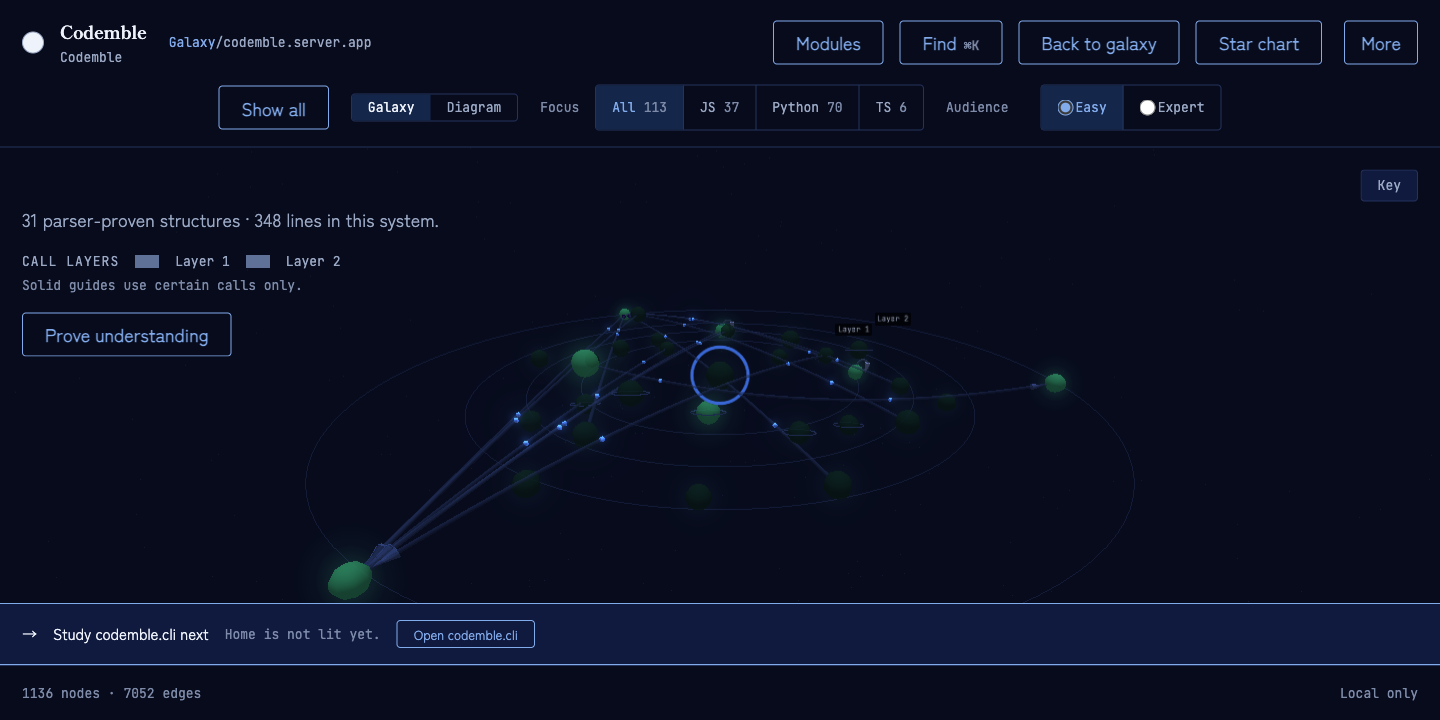
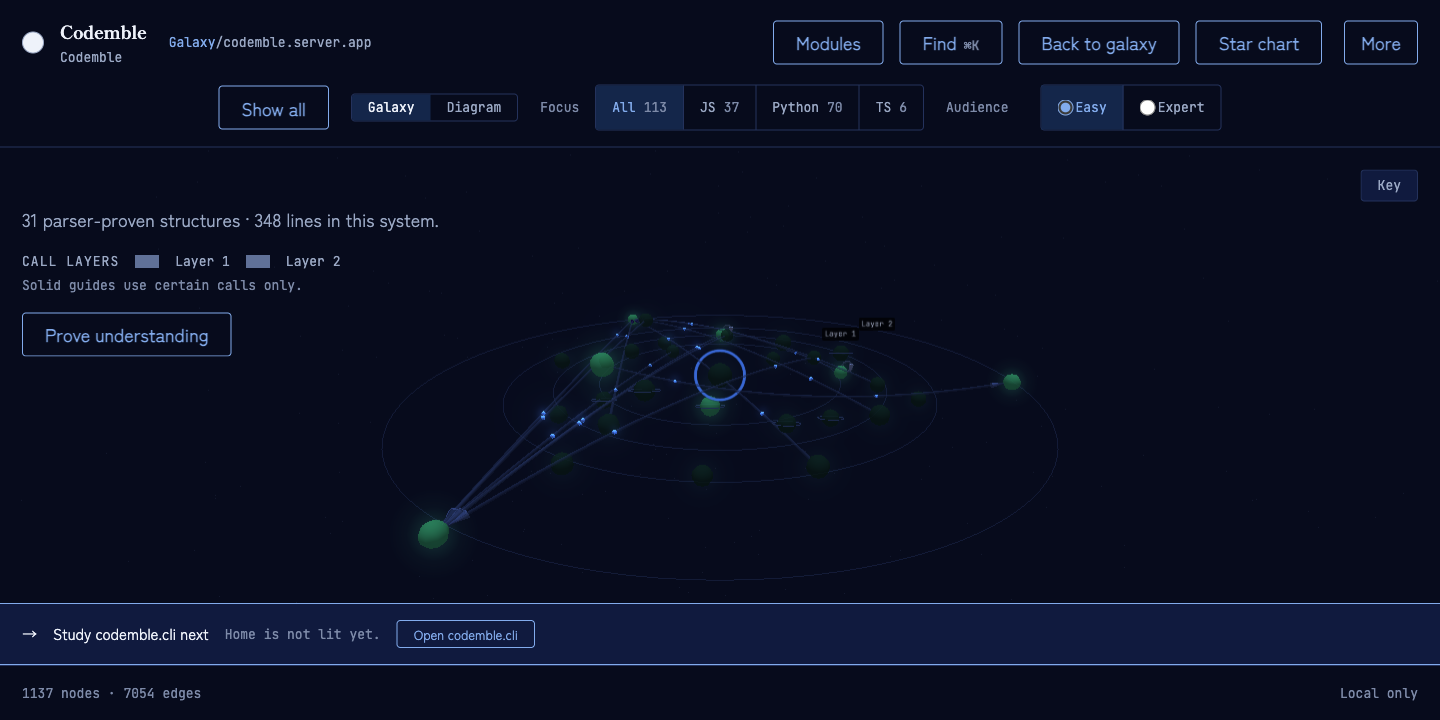
docs: recapture the shots on the fitted camera
The galaxy and system frames are what changed most: both now show their
whole subject because the camera fits it, rather than a view cropped by
a distance chosen once. galaxy.png and galaxy-lit.png are finally the
same framing, so the pair reads as a true before and after instead of
two different views that happen to share a project.

Counts move 1121/6995/111 to 1137/7054/113 and the map's unrouted note
82 to 84, because the camera fix's own two files are parsed like any
other source. Quoted counts follow in README, the-galaxy and the atlas.

diff --git a/CLAUDE.md b/CLAUDE.md
@@ -168,7 +168,42 @@ Polish, then the coordinated launch (Show HN / X; lit-galaxy GIF as hero).
 ## Current State **[AGENT-MAINTAINED]**
 
 **Current milestone: Phase 1 tester evidence** · Last updated: 2026-07-28 ·
-Session note: the eight product screenshots were recaptured on the v0.8.0 shell,
+Session note: the galaxy camera now frames what is actually there. It had used a
+fixed distance, and **the first diagnosis of why was wrong**: a
+`PerspectiveCamera`'s `fov` is vertical, so v0.8.0's taller canvas did narrow
+the horizontal field — but measured against the real layout the aspect changed
+the required distance by *nothing at all* (1061 at 3.8, at 3.16 and at 1.9).
+The binding constraint was the near edge. This repository's layout is a disc of
+radius ~628 while the camera sat 327 from the origin, so nodes reached 552
+along the view axis and fell **behind** the camera: 15 of 113 regions gone
+outright, 16 more off screen, 82 of 113 visible. The layout had outgrown the
+distance, which no aspect explains and which predated v0.8.0. `framingDistance`
+now solves for the smallest distance holding every point inside the frustum,
+given the tilt, the vertical fov and the aspect; the tilt stays art direction.
+Three more faults surfaced only by running it. Fitting **all** 113 systems
+framed the whole disc and left the charted core a thumbnail — nothing off
+screen, nothing legible either — so the camera fits the *charted* set while the
+far clamp is still set from the whole project, which keeps the uncharted rim
+reachable without opening there; **Show all** charts everything, so that case
+fits the lot. The re-frame on resize read a stale `camera.aspect`, because
+Kapsule batches `width`/`height` and applies them on its next tick, so the
+aspect is now passed in. And name plates are far wider than their stars and
+keep their pixel width whatever the camera does, so **no** share of the frame
+reserved by the camera can cover them on a narrow window — at 900px the widest
+paths, which are the most useful ones, hung over the edge. That belongs to
+`nameAtlas`, whose `chooseSlot` already had the plate's pixel rectangle and
+already rejects a slot it cannot have; it now also rejects one that would fall
+off the canvas and tries the next, exactly as it does for a collision. A system
+view fits its orbit **guides** as well as its planets, since a guide is a
+circle through the planets and its widest point on screen falls between them.
+Verified at 1440x720, 1280x720, 900x1000 and 375x720, on Show all, across
+resizes, and with a manual zoom preserved through one. Counts moved
+1121/6995/111 → 1137/7054/113 because the fix's own two files are parsed, so
+every shot and every quoted count was redone. 254 pytest, Ruff 0.16 clean,
+**13** frontend contract checks (camera framing is new), astro check/build,
+reproducible rebuilt bundle.
+
+Previously: the eight product screenshots were recaptured on the v0.8.0 shell,
 paying the debt the release left open. Measuring them first changed the job
 three times. Only **five of the eight are displayed anywhere** — `easy-mode`,
 `galaxy-lit` and `map-workflow` appear in no README, docs page or landing — and
@@ -205,15 +240,10 @@ its place as the after to the hero's before. Counts moved 1081/6724/109 →
 under tests/" were all still exactly right and were left alone. Capture at
 1440x720 rather than the old 716 also required `AtlasJourney.astro`'s two
 `height` attributes and `landing.css`'s `aspect-ratio: 1440 / 716` to move in
-step, or the plate would letterbox. **Left open:** the galaxy's initial camera
-uses a fixed distance rather than fitting the bounding box, and a
-`PerspectiveCamera`'s `fov` is *vertical* — so v0.8.0's taller canvas dropped
-the aspect from ~3.8 to ~3.16 and *narrowed* the horizontal view. At 1440x720
-the sky now opens clipped, and both galaxy shots were framed by zooming out by
-hand. Filed as its own change; a camera-framing rule touches the
-"same code → same sky" criterion and the bounded-orbit clamps. 254 pytest,
-Ruff 0.16 clean, 12 frontend contract checks, astro check/build, reproducible
-rebuilt bundle.
+step, or the plate would letterbox. The galaxy opened clipped and both galaxy
+shots were framed by zooming out by hand; that has since been fixed properly —
+see the entry above. 254 pytest, Ruff 0.16 clean, 12 frontend contract checks,
+astro check/build, reproducible rebuilt bundle.
 
 Previously: **v0.8.0** — the shell stopped spending more height on chrome than
 on the stage it frames. Easy mode at 1280x720 gave 338px of 720 (47%) to header,
@@ -834,6 +864,9 @@ shows lower repeated-commit work without changing derived values.
 | 2026-07-28 | `unsupported_sources` counts a file only when **no adapter recognised its extension**, not when no adapter claimed the path | An adapter that skips a file as generated output has still read the extension, so the file was excluded on purpose rather than missed. `_ignore_project_directory` prunes a directory only when *every* adapter ignores it, and Python's ignore set is empty, so `codemble/web_dist` was always walked and its bundled `.js` fell through to the tally. The galaxy and map then told a learner "1 JavaScript file not included" about the app's own committed SPA — a false claim in the exact channel graph schema 8 added to be truthful about coverage, and one the v0.8.0 changelog already advertised as handled ("registering an adapter automatically silences its own extension"). Recognition is the honest test; ownership is not |
 | 2026-07-28 | `.mobile-menu-trigger` sets its own `background`, matching `.rail-action` | The rule set border, radius, colour, cursor and weight but no background, so the UA's `buttonface` (#efefef) won and ruri text sat on it at **2.0:1** — under the 4.5:1 floor `design.md` mandates. It was wrong at compact widths from the start, but v0.8.0 promoted the control to every desktop width as **More**, which is how it reached all seven product screenshots as a light slab in a dark navy header |
 | 2026-07-28 | The product shots are captured from a git worktree named `Codemble`, at 1440x720, with `loading.png` excluded | The brand line renders the project directory's own name, so serving a worktree published `silly-swanson-53d316` to the docs. Capturing at 720 rather than the old 716 is one round number, but it couples: `AtlasJourney.astro`'s two `height` attributes and `landing.css`'s `aspect-ratio` both encode the frame and must move together or the atlas plate letterboxes. `loading.png` is a pre-app, full-window state with no header, from a different rig and a synthetic 900-file project, so no shell change can affect it and its counts are not this repository's |
+| 2026-07-28 | The galaxy camera's **distance** is solved from the nodes each time; only its tilt stays hardcoded. `CAMERA_BOUNDS` become floors that the fitted distance may raise, so a level always opens inside the range it is then held to | A fixed distance is a bet that the layout will never outgrow it, and this one had: the disc reaches radius ~628 while the camera sat at 327, so 15 of 113 regions were *behind* the camera and 31 were not on screen at all. Diagnosis is worth recording because the obvious answer was wrong — a `PerspectiveCamera`'s `fov` is vertical, so v0.8.0's taller canvas genuinely did narrow the horizontal field, but measured against the real layout the aspect moved the required distance by nothing (1061 at every aspect tried). The near edge binds, not the sides. Determinism is preserved because the fit is a pure function of node positions, tilt, fov and aspect — "same code → same sky" now also means "same window" |
+| 2026-07-28 | The galaxy opens fitted to the **charted** systems, not to all of them; the far clamp is still set from the whole project | Fitting everything is defensible and unusable: on this repository it framed the full disc and shrank the charted core to a thumbnail, trading a bug where you could not see a third of the sky for one where you could not read any of it. Progressive reveal already decides what the learner is meant to be reading, so the camera follows it. The uncharted rim stays drawn, stays clickable, and stays reachable by zooming out — which is what the whole-project clamp is for. **Show all** charts every region, so it fits everything with no special case |
+| 2026-07-28 | Keeping a name plate on the canvas is `nameAtlas`'s job, not the camera's | A plate holds its pixel width whatever the camera does, so the share of the frame it needs grows as the window narrows — no constant margin the camera reserves can cover it, and at 900px the widest paths, the most useful ones, hung off the edge. `chooseSlot` already computes the plate's pixel rectangle and already rejects a slot that collides; rejecting one that falls off the canvas is the same test against a different obstacle, and a plate with no slot is simply not drawn, exactly as when it loses to a neighbour |
 | 2026-07-28 | `galaxy.png` shows a genuine first-run **unlit** galaxy; the lit Home lives only in `galaxy-lit.png` | The previous hero was captured mid-session with Home already lit, so its alt text promised "an amber lit Home" that a new reader would not see on their own first run. Splitting the two makes the pair a before and after and gives `galaxy-lit.png` — displayed nowhere until now — a reason to exist. Illumination is the product's central claim, so it should be shown being *earned*, not preset |
 
 ## Non-Goals — do NOT build (point here when asked)

diff --git a/docs-site/src/content/docs/the-galaxy.md b/docs-site/src/content/docs/the-galaxy.md
@@ -5,7 +5,7 @@ description: How your code becomes a sky — and why the camera stays on rails.
 
 ## Your code, mapped honestly
 
-![Codemble at galaxy level on a first run: 111 star systems parsed from real source, 23 of them charted and named by their file path, constellations wearing their import-community colour families in traditional Japanese hues around an as-yet unlit Home, with the language focus buttons, a Key disclosure, a notice that two files could not be read — all under tests/ — and a prompt to study codemble.cli next.](/Codemble/shots/galaxy.png)
+![Codemble at galaxy level on a first run: 113 star systems parsed from real source, 23 of them charted and named by their file path, constellations wearing their import-community colour families in traditional Japanese hues around an as-yet unlit Home, with the language focus buttons, a Key disclosure, a notice that two files could not be read — all under tests/ — and a prompt to study codemble.cli next.](/Codemble/shots/galaxy.png)
 
 The galaxy is not an artist's impression. Every visual property encodes a fact
 from the parsed structure of your code:

diff --git a/README.md b/README.md
@@ -34,7 +34,7 @@
 </p>
 
 <p align="center">
-  <img src="https://github.com/udhawan97/Codemble/raw/main/docs-site/public/shots/galaxy.png" alt="Codemble at galaxy level on a first run: 111 star systems parsed from real source, 23 charted and named by file path, constellations wearing their import-community colour families in traditional Japanese hues around an as-yet unlit Home, with language focus buttons, a Key disclosure, a notice that two files could not be read — all under tests/ — and a prompt to study codemble.cli next" width="960">
+  <img src="https://github.com/udhawan97/Codemble/raw/main/docs-site/public/shots/galaxy.png" alt="Codemble at galaxy level on a first run: 113 star systems parsed from real source, 23 charted and named by file path, constellations wearing their import-community colour families in traditional Japanese hues around an as-yet unlit Home, with language focus buttons, a Key disclosure, a notice that two files could not be read — all under tests/ — and a prompt to study codemble.cli next" width="960">
 </p>
 
 <p align="center"><sub>

diff --git a/CHANGELOG.md b/CHANGELOG.md
@@ -6,6 +6,14 @@ Format: [Keep a Changelog](https://keepachangelog.com/en/1.1.0/) · Versioning: 
 ## [Unreleased]
 
 ### Fixed
+- **The galaxy opens showing your whole charted sky.** The camera used a fixed
+  distance chosen once, so a project whose map grew past it lost its near edge
+  *behind* the camera — on this repository 15 of 113 modules were not merely
+  cropped but absent, and another 16 sat off screen, with no hint that anything
+  was missing. The camera now works out how far back it needs to be from the
+  modules themselves, and does it again when the window changes shape, unless
+  you have moved the camera yourself. Module names that would hang off the edge
+  of the canvas are no longer drawn there.
 - **Codemble no longer reports its own bundled app as a file it could not
   read.** The count of unsupported source files asked whether any adapter had
   *claimed* a file, which is not the same question as whether any adapter
